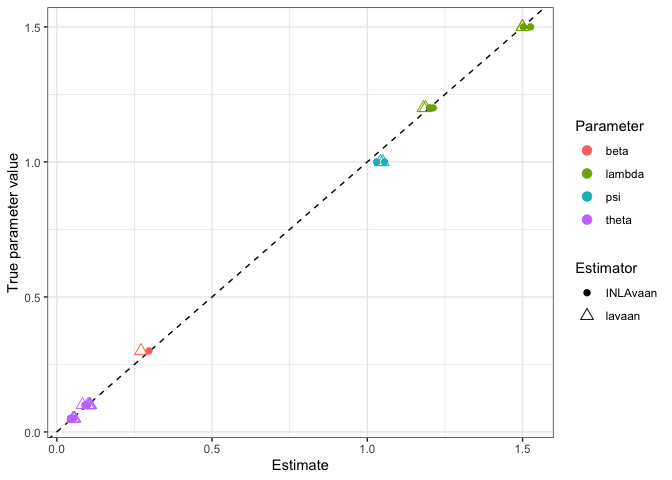
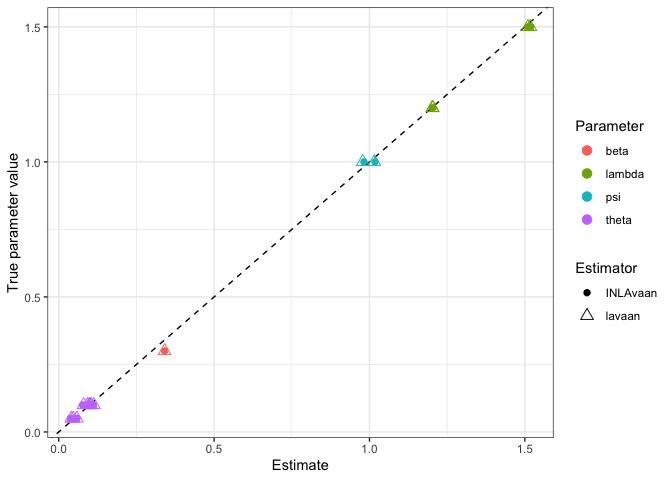
Update README

diff --git a/README.md b/README.md
@@ -12,7 +12,7 @@ experimental](https://img.shields.io/badge/lifecycle-experimental-orange.svg)](h
 
 > Bayesian structural equation modelling with INLA.
 
-Soon-ish features
+**Soon-ish features**
 
 1.  Model fit indices (PPP, xIC, RMSEA, etc.)
 2.  Prior specification.
@@ -20,9 +20,9 @@ Soon-ish features
 4.  Specify different families for different observed variable.
 5.  Standardised coefficients.
 
-Long term plan
+**Long term plan**
 
-1.  “non-iid” models, such as spatio-temporal models.
+1.  “Non-iid” models, such as spatio-temporal models.
 2.  Multilevel-ish kind of models (2-3 levels).
 3.  Covariates.
 4.  Multiple groups (yes, should be easy–but I’m lazy)
@@ -35,7 +35,10 @@ values of $k$th latent variable $\eta_{ki}$ for subject $i$, the six
 measurement model equations are
 
 <br>
+<p align="center">
 <img src="man/figures/measeqn.gif" width="40%" style="display: block; margin: auto;" />
+</p>
+
 <br> <!-- $$ --> <!-- \begin{gathered} -->
 <!-- y_{1i} = \lambda_{11} \eta_{1i} \phantom{+ \lambda_{1} \eta_{2i}} + \epsilon_{1i}, \quad \epsilon_{1i} \sim N(0, \theta_{11}) \\ -->
 <!-- y_{2i} = \lambda_{21} \eta_{1i} \phantom{+ \lambda_{1} \eta_{2i}} + \epsilon_{2i}, \quad \epsilon_{2i} \sim N(0, \theta_{22}) \\ -->
@@ -53,7 +56,10 @@ For identifiability, we set $\lambda_{11} = \lambda_{42} = 1$. The
 structural part of the model are given by these equations:
 
 <br>
+<p align="center">
 <img src="man/figures/struceqn.gif" width="30%" style="display: block; margin: auto;" />
+</p>
+
 <br> <!-- $$ --> <!-- \begin{gathered} -->
 <!-- \eta_{1i} = \phantom{b\eta_{1i} +} \zeta_{1i}, \quad \zeta_{1i} \sim N(0, \psi_1) \\ -->
 <!-- \eta_{2i} = b\eta_{1i} + \zeta_{2i}, \quad \zeta_{2i} \sim N(0, \psi_2) -->
@@ -81,13 +87,13 @@ mod <- "
 
 # Data set
 head(dat)
-#>           y1           y2         y3         y4          y5         y6
-#> 1 -0.3041244  0.004872561 -0.2987728 -2.2463465 -2.19308858 -2.3189130
-#> 2 -0.6868553 -1.181339961 -0.9664845  0.3086220  0.06721542  0.2099305
-#> 3 -1.5338212 -2.023561358 -2.0178936 -0.2827352 -0.27857286  0.1029242
-#> 4 -1.3763584 -0.981139168 -1.4097166 -2.3489787 -2.05263848 -2.4736151
-#> 5 -0.2351284 -0.968125141 -1.1305393 -0.6665993 -0.31054002 -1.0962937
-#> 6 -0.7041394 -0.109292347 -0.3494354 -0.4915613 -0.37362781 -0.7611681
+#>           y1         y2          y3         y4         y5         y6
+#> 1  0.7276611  0.7354784  1.47927478  0.1786767  0.1289186 -0.6247644
+#> 2  0.4159480  0.6250080  1.18575545 -0.3045053  0.5148818  0.9116586
+#> 3 -0.2526644 -0.6435350  0.04014478  1.6896423  2.4957241  2.8386022
+#> 4 -2.1038926 -2.0204938 -3.37776409 -0.2491211  0.6965661 -0.6834043
+#> 5  0.3604038  1.0746606  1.09895486 -1.9413157 -1.8333235 -2.0831125
+#> 6 -0.2370867 -0.5035508 -1.40864037  0.4525948  1.0609742  0.9288481
 ```
 
 To fit this model using `{INLAvaan}`, use the familiar `{lavaan}`
@@ -100,7 +106,7 @@ fit <- isem(model = mod, data = dat)
 summary(fit)
 ```
 
-    #> INLAvaan 0.1.0.9003 ended normally after 29 seconds
+    #> INLAvaan 0.1.0.9003 ended normally after 22 seconds
     #> 
     #>   Estimator                                      BAYES
     #>   Optimization method                             INLA
@@ -109,7 +115,7 @@ summary(fit)
     #>   Number of observations                          1000
     #> 
     #>   Statistic                                 MargLogLik         PPP
-    #>   Value                                      -5275.677          NA
+    #>   Value                                      -5236.883          NA
     #> 
     #> Parameter Estimates:
     #> 
@@ -118,37 +124,37 @@ summary(fit)
     #>                    Estimate  Post.SD pi.lower pi.upper    Prior       
     #>   eta1 =~                                                             
     #>     y1                1.000                                           
-    #>     y2                1.212    0.014    1.185    1.239    normal(0,10)
-    #>     y3                1.526    0.016    1.495    1.557    normal(0,10)
+    #>     y2                1.203    0.015    1.174    1.231    normal(0,10)
+    #>     y3                1.510    0.016    1.477    1.542    normal(0,10)
     #>   eta2 =~                                                             
     #>     y4                1.000                                           
-    #>     y5                1.200    0.013    1.175    1.226    normal(0,10)
-    #>     y6                1.503    0.015    1.473    1.533    normal(0,10)
+    #>     y5                1.204    0.013    1.178    1.230    normal(0,10)
+    #>     y6                1.518    0.015    1.489    1.547    normal(0,10)
     #> 
     #> Regressions:
     #>                    Estimate  Post.SD pi.lower pi.upper    Prior       
     #>   eta2 ~                                                              
-    #>     eta1              0.297    0.032    0.235    0.360    normal(0,10)
+    #>     eta1              0.341    0.033    0.275    0.405    normal(0,10)
     #> 
     #> Covariances:
     #>                    Estimate  Post.SD pi.lower pi.upper    Prior       
     #>  .y1 ~~                                                               
-    #>    .y4                0.054    0.004    0.048    0.061       beta(1,1)
+    #>    .y4                0.058    0.004    0.050    0.065       beta(1,1)
     #>  .y2 ~~                                                               
-    #>    .y5                0.045    0.004    0.037    0.053       beta(1,1)
+    #>    .y5                0.049    0.004    0.040    0.057       beta(1,1)
     #>  .y3 ~~                                                               
-    #>    .y6                0.044    0.006    0.034    0.055       beta(1,1)
+    #>    .y6                0.038    0.005    0.028    0.047       beta(1,1)
     #> 
     #> Variances:
     #>                    Estimate  Post.SD pi.lower pi.upper    Prior       
-    #>    .y1                0.099    0.006    0.089    0.108 gamma(1,.5)[sd]
-    #>    .y2                0.091    0.007    0.079    0.105 gamma(1,.5)[sd]
-    #>    .y3                0.093    0.009    0.078    0.110 gamma(1,.5)[sd]
-    #>    .y4                0.099    0.006    0.088    0.111 gamma(1,.5)[sd]
-    #>    .y5                0.097    0.007    0.084    0.110 gamma(1,.5)[sd]
-    #>    .y6                0.092    0.009    0.076    0.111 gamma(1,.5)[sd]
-    #>     eta1              1.055    0.050    0.960    1.158 gamma(1,.5)[sd]
-    #>    .eta2              1.030    0.049    0.937    1.129 gamma(1,.5)[sd]
+    #>    .y1                0.111    0.006    0.100    0.123 gamma(1,.5)[sd]
+    #>    .y2                0.102    0.008    0.088    0.120 gamma(1,.5)[sd]
+    #>    .y3                0.077    0.008    0.063    0.090 gamma(1,.5)[sd]
+    #>    .y4                0.095    0.005    0.084    0.104 gamma(1,.5)[sd]
+    #>    .y5                0.103    0.006    0.090    0.113 gamma(1,.5)[sd]
+    #>    .y6                0.089    0.008    0.072    0.105 gamma(1,.5)[sd]
+    #>     eta1              0.982    0.048    0.895    1.081 gamma(1,.5)[sd]
+    #>    .eta2              1.018    0.049    0.932    1.124 gamma(1,.5)[sd]
 
 Compare model fit to `{lavaan}`:
 
